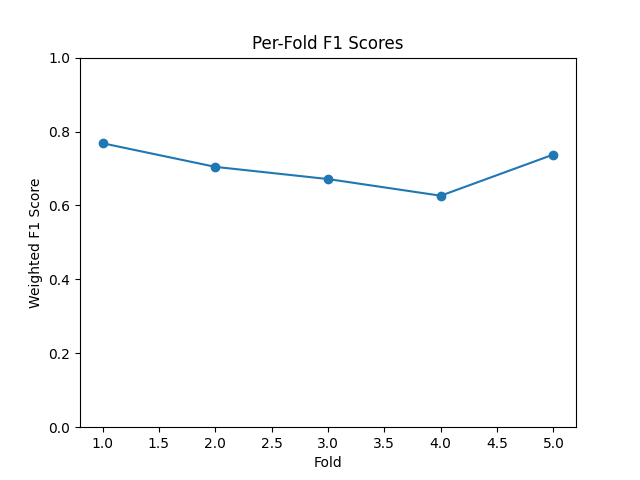
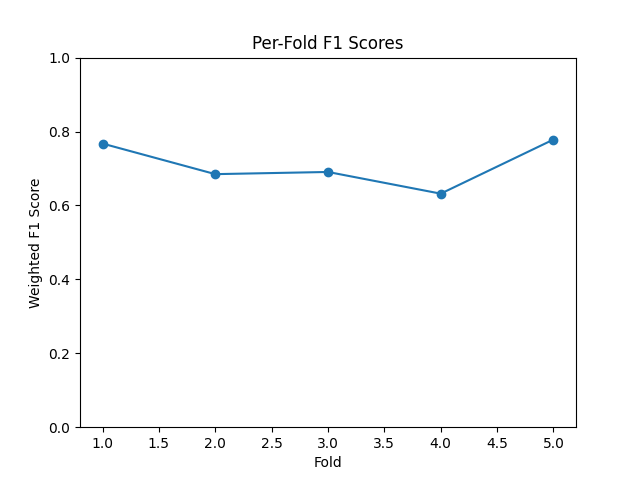
clean up

Changed region(s): [[0.1562, 0.2812, 0.875, 0.4062]]

diff --git a/disaster_label_model.py b/disaster_label_model.py
@@ -12,18 +12,18 @@ from sklearn.metrics import roc_curve, auc
 
 
 
-gabor_mean = np.load("gabor_mean_all.npy")
-sobel_edge = np.load("sobel_edges0.4_all.npy")
-sobel_mean = np.load("sobel_mean_all.npy")
-sobel_var = np.load("sobel_var_all.npy")
-lbp_mean = np.load("lbp_mean_all.npy")
-entropy_mean = np.load("entropy_mean_all.npy")
-blue = np.load("mean_B.npy")
-green = np.load("mean_G.npy")
+gabor_mean = np.load("npy_files/gabor_mean_all.npy")
+sobel_edge = np.load("npy_files/sobel_edges0.4_all.npy")
+sobel_mean = np.load("npy_files/sobel_mean_all.npy")
+sobel_var = np.load("npy_files/sobel_var_all.npy")
+lbp_mean = np.load("npy_files/lbp_mean_all.npy")
+entropy_mean = np.load("npy_files/entropy_mean_all.npy")
+blue = np.load("npy_files/mean_B.npy")
+green = np.load("npy_files/mean_G.npy")
 
 features = ['gabor','sobel_edge','sobel_mean','sobel_var','lbp_mean', 'entropy_mean', 'blue', 'green']
 X = np.concatenate([gabor_mean, sobel_edge, sobel_mean, sobel_var, lbp_mean,  entropy_mean, blue , green], axis=1)
-Y = np.load("all_labels.npy")
+Y = np.load("../satellite-image-data/all_labels.npy")
 
 
 def stratified_CV(X, Y, model, n_split=5, metric=accuracy_score):
